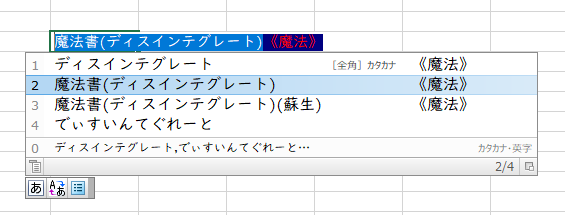
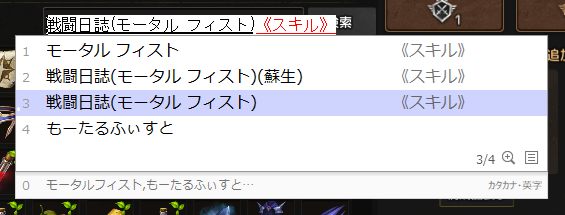
ATOK/IME スクリーンショットを2026-01撮影し直し差し替え。 index.htmlはheight&alt変更

diff --git a/index.html b/index.html
@@ -80,8 +80,8 @@
         <div class="article-paragraph content-block">
           <h3 class="article-paragraph-title">漢字変換辞書テキスト。zipアーカイブ</h3>
           <p>狩り場図鑑入力アイテム群の読みを独自に辞書テキストに抜粋。生息地を除く一般的な地名などは未収録。</p>
-          <img class="ss" src="./picture/ATOK_hennkan_SS.png" width="565" height="215" alt="変換候補のユーザーコメント表示" />
-          <img class="ss" src="./picture/IME_hennkan_SS.png" width="565" height="215" alt="変換候補のユーザーコメント表示" />
+          <img class="ss" src="./picture/ATOK_hennkan_SS.png" width="565" height="215" alt="変換候補のユーザーコメント表示例ATOK" />
+          <img class="ss" src="./picture/IME_hennkan_SS.png" width="565" height="247" alt="変換候補のユーザーコメント表示例IME" />
         </div>
 <!-- IME -->
         <!-- <div class="article-date"><i class="fa fa-clock-o">更新</i>&nbsp;2024年11月21日</div>
